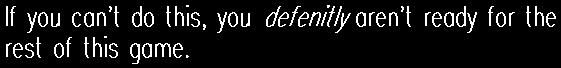
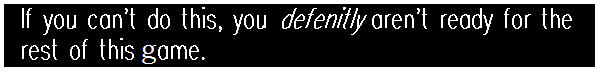
Added proper background, and much more.
Changes:
- Added a proper background
- Added lag
- Fixed some bugs
- Compressed the background a little

diff --git a/Gam e.py b/Gam e.py
@@ -139,6 +139,26 @@ class Ground(pygame.sprite.Sprite):
         self.image = pygame.image.load(os.path.join('images', img))
         self.image.convert_alpha()
         self.image.set_colorkey(alpha)
+        self.rect = screen.get_rect()
+        self.rect.x = x
+        self.rect.y = y
+
+class Background(pygame.sprite.Sprite):
+    def __init__(self,x,y,img):
+        pygame.sprite.Sprite.__init__(self)
+        self.image = pygame.image.load(os.path.join('images', img))
+        self.image.convert_alpha()
+        self.image.set_colorkey(alpha)
+        self.rect = self.image.get_rect()
+        self.rect.x = x
+        self.rect.y = y
+
+class Background0(pygame.sprite.Sprite):
+    def __init__(self,x,y,img):
+        pygame.sprite.Sprite.__init__(self)
+        self.image = pygame.image.load(os.path.join('images', img))
+        self.image.convert_alpha()
+        self.image.set_colorkey(alpha)
         self.rect = self.image.get_rect()
         self.rect.x = x
         self.rect.y = y
@@ -164,9 +184,11 @@ def level1():
     static_list = pygame.sprite.Group()
     spike = Static(800, 846, 64, 64,os.path.join('images', 'enemyu b.png'))
     spike0 = Static(800, 50, 64, 500,os.path.join('images', 'enemy c.png'))
-    text = Static(500, 200, 600, 600,os.path.join('images', 'text1.png'))
+    spike1 = Static(2000, 410, 64, 500,os.path.join('images', 'enemyu c.png'))
+    text = Static(1000, 500, 600, 72,os.path.join('images', 'text1.png'))
     static_list.add(spike) #after each block
     static_list.add(spike0)
+    static_list.add(spike1)
     static_list.add(text)
     return static_list
 
@@ -174,8 +196,8 @@ def level1():
 screenSize = [1920, 1080]
 screenY = 1080
 screenX = 1920
-fps = 144
-afps = 14
+fps = 60
+afps = 6
 
 alpha = (0,0,0)
 black = (1,1,1)
@@ -187,8 +209,8 @@ pygame.init()
 main = True
 
 screen = pygame.display.set_mode(screenSize)
-backdrop = pygame.image.load(os.path.join('images','bg1.png')).convert()
-backdropRect = screen.get_rect()
+'''backdrop = pygame.image.load(os.path.join('images','bg1.png')).convert()
+backdropRect = screen.get_rect()'''
 
 redin = True
 redde = False
@@ -221,6 +243,17 @@ ground = Ground(0,900, 'line.png')
 ground_list = pygame.sprite.Group()
 ground_list.add(ground)
 
+#bg code
+background = Background(0,0, 'bg1.png')
+bg_list = pygame.sprite.Group()
+bg_list.add(background)
+
+#bg0 code
+background0 = Background0(0,0, 'bg2.png')
+bg0_list = pygame.sprite.Group()
+bg0_list.add(background0)
+
+
 # MAIN LOOP/GAME
 while main == True:
     for event in pygame.event.get():
@@ -251,6 +284,9 @@ while main == True:
             if event.key == ord('d'):
                 print("Right")
                 player.control(movesteps, 0)
+        if event.type == pygame.MOUSEBUTTONDOWN:
+                print("Up")
+                player.jump(ground_list)
     #scroll forward
     if player.rect.x >= forwardX:
         scroll = player.rect.x - forwardX
@@ -259,6 +295,10 @@ while main == True:
             static.rect.x -= scroll
         for enemy in enemy_list:
             enemy.rect.x -= scroll
+        for background in bg_list:
+            background.rect.x -=(scroll/1.5)
+        for background in bg0_list:
+            background.rect.x -=(scroll/1.75)
     #scroll backward
     if player.rect.x <= backwardX:
         scroll = player.rect.x + backwardX
@@ -268,6 +308,10 @@ while main == True:
             static.rect.x += scroll
         for enemy in enemy_list:
             enemy.rect.x += scroll
+        for background in bg_list:
+            background.rect.x +=(scroll/1.5)
+        for background in bg0_list:
+            background.rect.x +=(scroll/1.75)
       
     if redin:
         a += 0.2
@@ -300,9 +344,8 @@ while main == True:
         redin = True
         print('red')
     screen.fill([a,b,c])
-
-    screen.blit(backdrop, backdropRect)
-    
+    bg0_list.draw(screen)
+    bg_list.draw(screen)
     ground_list.draw(screen)
     static_list.draw(screen) #draw platform on screen
     player.gravity() 
